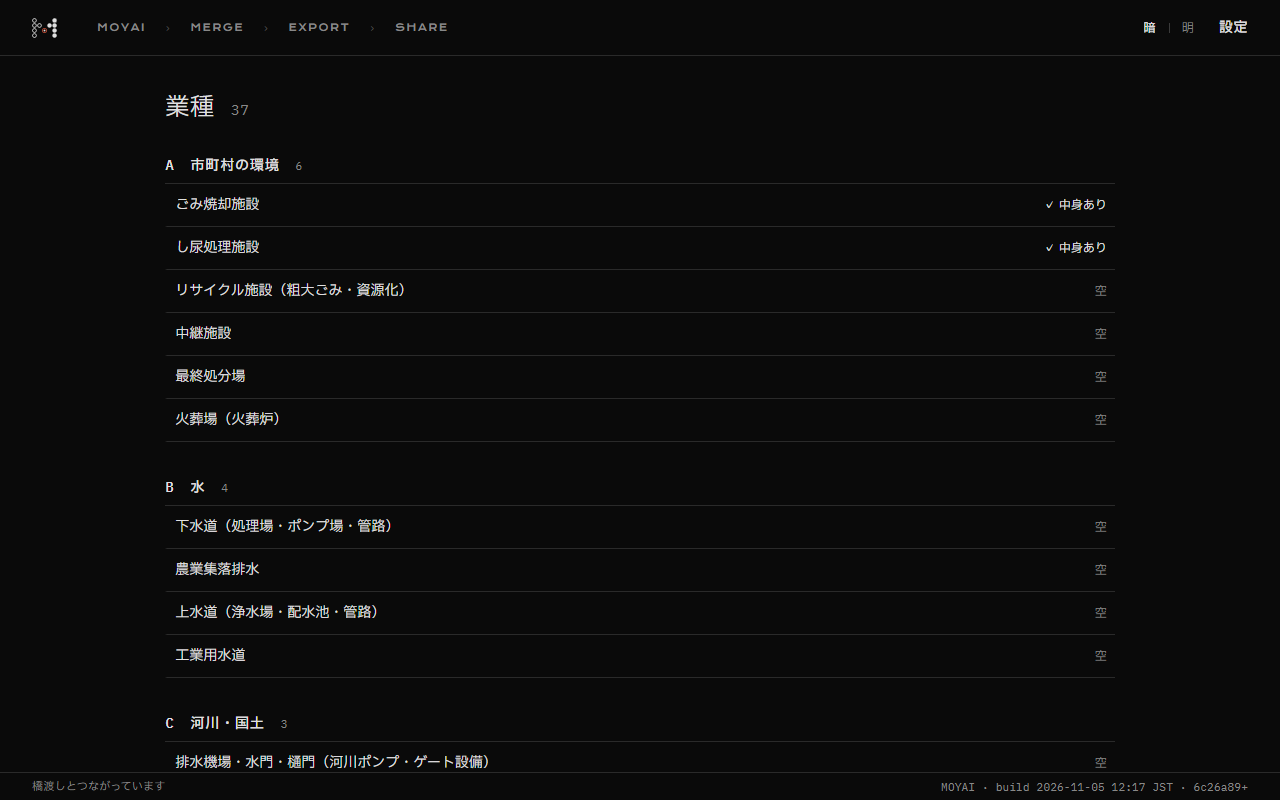
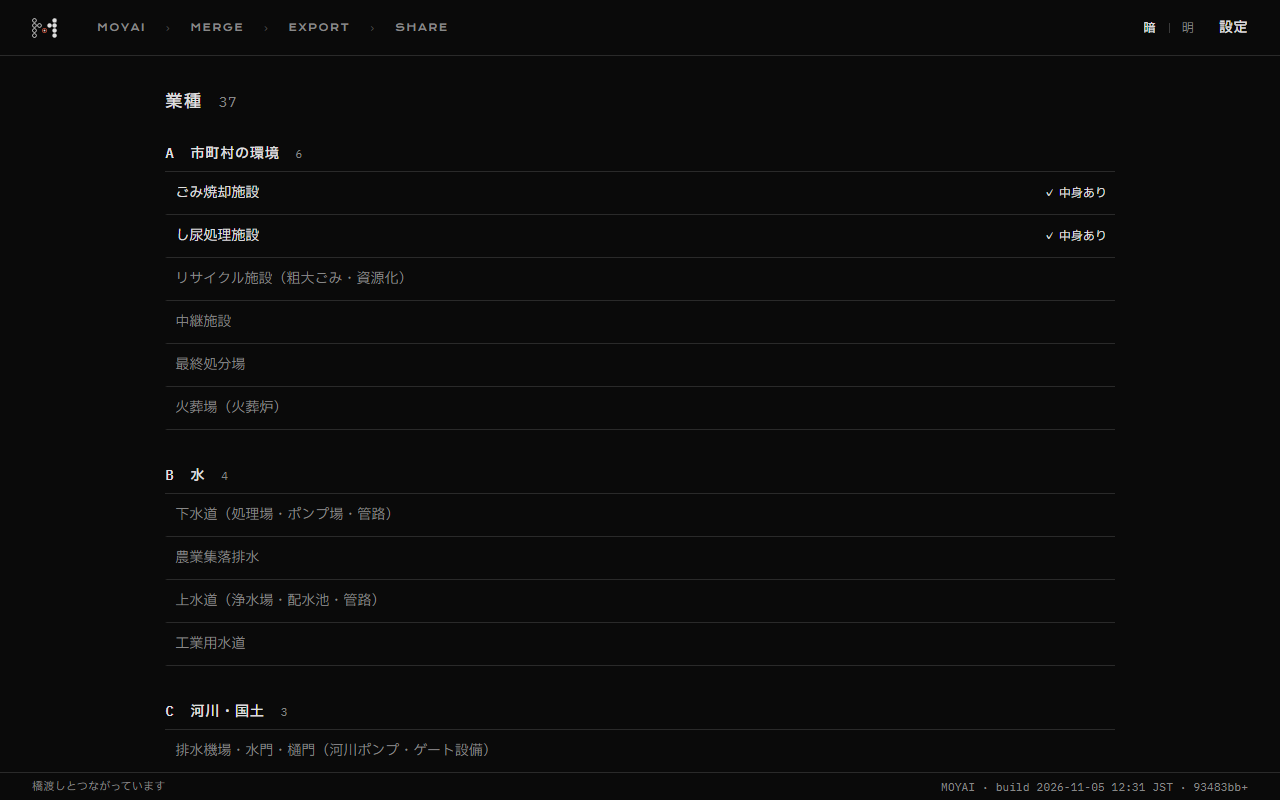
業種の画面の直し（Wire の 6 点）と emptyPack を import の下へ
- 空の行の「空」を外し、名前を淡い字に。中身のある行だけ「✓ 中身あり」
- 選んだ行と詳しくの行の左の罫を朱から墨に
- 選んだときを 1 行に：「…出どころの候補：発行元『名前』（未確認）」。docs/industries.md も同じ書き方に
- 原子力の reason を「核物質防護のため作らない」だけにし、残りは note へ
- 題を 17px・500・字間 0.1em（moyai-merge-name）に
- src/bridge/human.ts の emptyPack を import の列の下へ（動きは同じ）
- 写し 4 枚を撮り直した

diff --git a/src/app/pages/Industries.tsx b/src/app/pages/Industries.tsx
@@ -1,7 +1,7 @@
 // 【業種】（設定からのリンク。docs/plan.md §2.7・docs/screens.md 3.7）：設備の地図の群（A〜H）ごとに、設備の種類のパックを並べる。
-// 数は packs/ から数える。中身のあるパックには印、空のパックを選ぶと「まだ中身がありません」と出どころの候補を出す。作らない行は名前と理由だけ。
+// 数は packs/ から数える。中身のあるパックには印、空のパックは淡い字で、選ぶと「まだ中身がありません」と出どころの候補を出す。作らない行は名前と理由だけ。
 // 説明の文は置かない。名前・群の名前・作らない理由・出どころの候補は、すべてパックと packs/_kinds/ から読む。
-import { Container, Group, Stack, Text, Title } from "@mantine/core";
+import { Container, Group, Stack, Text } from "@mantine/core";
 import { useMemo, useState } from "react";
 import { industryMap } from "../industries";
 import type { MapRow } from "../../shared/pack";
@@ -12,21 +12,21 @@ const T = TEXT.industries;
 function Detail({ row }: { row: MapRow }) {
   return (
     <div className="moyai-industry-detail" data-testid={`industry-detail-${row.id}`}>
-      {row.kind === "empty" && (
-        <Text size="sm">
-          {T.emptyLine}
-          {T.candidates}
-          {row.sourceCandidates.map((c, i) => (
-            <span key={i}>
-              {i > 0 && "、"}
-              {T.candidate(c.title, c.issuer)}
-              {c.scope === "group" && <span className="moyai-industry-dim">{T.groupScope}</span>}
-            </span>
-          ))}
-        </Text>
-      )}
-      <Text size="xs" className="moyai-industry-dim">
-        {T.verification}　{row.verification}
+      <Text size="sm">
+        {row.kind === "empty" && (
+          <>
+            {T.emptyLine}
+            {T.candidates}
+            {row.sourceCandidates.map((c, i) => (
+              <span key={i}>
+                {i > 0 && "、"}
+                {T.candidate(c.title, c.issuer)}
+                {c.scope === "group" && <span className="moyai-industry-dim">{T.groupScope}</span>}
+              </span>
+            ))}
+          </>
+        )}
+        <span className="moyai-industry-dim">{T.level(row.verification)}</span>
       </Text>
     </div>
   );
@@ -38,7 +38,7 @@ export function Industries() {
   return (
     <Container size="lg" py="lg" data-testid="industries-page">
       <Group gap="sm" align="baseline" mb="md">
-        <Title order={2}>{T.title}</Title>
+        <h2 className="moyai-merge-name">{T.title}</h2>
         <Text className="moyai-num moyai-industry-dim" data-testid="industries-total">
           {T.count(map.total)}
         </Text>
@@ -72,7 +72,7 @@ export function Industries() {
                     onClick={() => setSelected((cur) => (cur === r.id ? null : r.id))}
                   >
                     <span>{r.name}</span>
-                    <span className="moyai-industry-mark">{r.kind === "content" ? `✓ ${T.filled}` : T.empty}</span>
+                    {r.kind === "content" && <span className="moyai-industry-mark">✓ {T.filled}</span>}
                   </button>
                   {selected === r.id && <Detail row={r} />}
                 </li>

diff --git a/src/bridge/human.ts b/src/bridge/human.ts
@@ -29,16 +29,6 @@ import { GITHUB_CLIENT_ID, githubClientIdOf, githubHostsOf, githubIo, openLedger
 import { parseJsonStrict } from "../share/jcs";
 import { loadSharePack, PACK_ID, type SharePack } from "../share/pack";
 import { parsePack } from "../shared/pack";
-
-/** 設備の地図の空のパック（名前と出どころだけ。docs/plan.md §2.7）。輪を作るときの選択に並べない */
-function emptyPack(dir: string): boolean {
-  try {
-    const r = parsePack(JSON.parse(readFileSync(join(dir, "pack.json"), "utf8")));
-    return r.ok && r.kind !== "content";
-  } catch {
-    return false;
-  }
-}
 import { POSITIONS, PROFILE_FROM, compare, defaultAxes, receiverProfile } from "../share/receive";
 import { loadLedgerPlace, loadPlaces } from "../share/receive-load";
 import { peerAggregates } from "../share/peer-reference";
@@ -64,6 +54,16 @@ import {
   type DocumentsInfo,
   type ShellRunner,
 } from "./places";
+
+/** 設備の地図の空のパック（名前と出どころだけ。docs/plan.md §2.7）。輪を作るときの選択に並べない */
+function emptyPack(dir: string): boolean {
+  try {
+    const r = parsePack(JSON.parse(readFileSync(join(dir, "pack.json"), "utf8")));
+    return r.ok && r.kind !== "content";
+  } catch {
+    return false;
+  }
+}
 
 export interface HumanEnv {
   stateDir: string | null;

diff --git a/tests/e2e/industries.spec.ts b/tests/e2e/industries.spec.ts
@@ -42,8 +42,12 @@ test("設定 → 業種：地図の全行が群ごとに並び、空のパック
     await page.getByTestId(`industry-${empty}`).click();
     const detail = page.getByTestId(`industry-detail-${empty}`);
     await expect(detail).toContainText("この業種のパックはまだ中身がありません。出どころの候補：");
-    for (const c of packOf(empty).sourceCandidates ?? []) await expect(detail).toContainText(c.title);
-    await expect(detail).toContainText("未確認");
+    // 1 行：計画 §2.7 の言葉、候補は「発行元『名前』」、後ろに確かめた度合い
+    const cands = (packOf(empty).sourceCandidates ?? []) as { title: string; issuer: string | null; scope: string }[];
+    const line = `この業種のパックはまだ中身がありません。出どころの候補：${cands.map((c) => (c.issuer ? `${c.issuer}『${c.title}』` : c.title) + (c.scope === "group" ? "（群の候補）" : "")).join("、")}（未確認）`;
+    await expect(detail).toHaveText(line);
+    // 空の行には印を出さない（中身のある行だけ「✓ 中身あり」）
+    await expect(page.getByTestId(`industry-${empty}`)).toHaveText(packOf(empty).name);
     await page.screenshot({ path: shot(`industries-selected-${tag}`), fullPage: true });
   });
 

diff --git a/src/app/theme.css b/src/app/theme.css
@@ -753,7 +753,7 @@ button.moyai-top-mk[data-kind="signed"] {
   align-self: flex-start;
 }
 
-/* 【業種】（設備の地図）：群の見出しの下に、設備の種類を 1 行ずつ。中身のある行は ✓ と墨、空の行は淡い字。選んだ行は左に朱の罫 */
+/* 【業種】（設備の地図）：群の見出しの下に、設備の種類を 1 行ずつ。中身のある行は ✓ と墨、空の行と作らない行は淡い字。選んだ行は左に墨の罫（朱は判断が要る所だけ） */
 .moyai-industry-head {
   padding-bottom: var(--sp-2);
   border-bottom: 1px solid var(--line);
@@ -787,8 +787,12 @@ button.moyai-industry-row {
 button.moyai-industry-row:hover {
   color: var(--text-2);
 }
+.moyai-industry-row[data-kind="empty"],
+.moyai-industry-row[data-kind="notBuilt"] {
+  color: var(--text-3);
+}
 .moyai-industry-row[aria-expanded="true"] {
-  border-left-color: var(--shu);
+  border-left-color: var(--text);
 }
 .moyai-industry-mark {
   flex: none;
@@ -804,6 +808,6 @@ button.moyai-industry-row:hover {
 }
 .moyai-industry-detail {
   padding: var(--sp-2) var(--sp-3) var(--sp-3);
-  border-left: 2px solid var(--shu);
+  border-left: 2px solid var(--text);
   border-bottom: 1px solid var(--line);
 }

diff --git a/src/app/text/index.ts b/src/app/text/index.ts
@@ -42,13 +42,12 @@ export const TEXT = {
     title: "業種",
     count: (n: number) => `${n}`,
     filled: "中身あり",
-    empty: "空",
     notBuilt: "作らない",
     emptyLine: "この業種のパックはまだ中身がありません。",
     candidates: "出どころの候補：",
-    candidate: (title: string, issuer: string | null) => (issuer ? `${title}（${issuer}）` : title),
+    candidate: (title: string, issuer: string | null) => (issuer ? `${issuer}『${title}』` : title),
+    level: (v: string) => `（${v}）`,
     groupScope: "（群の候補）",
-    verification: "確かめた度合い",
     invalid: (folder: string) => `読み込めないパック：${folder}`,
   },
   trial: {

diff --git a/docs/industries.md b/docs/industries.md
@@ -3,7 +3,7 @@
 `docs/plan.md` §2.7 の表。地図の 1 行（設備の種類）ごとに `packs/<pack-id>/` が 1 つある。画面は設定 › 【業種】（`#/settings/industries`）で、数は `packs/` から数える。群の名前と群の中の並びは `packs/_kinds/groups.json`。
 
 - 中身のあるパックは 2 つ（ごみ焼却・し尿処理）。ほかの 35 は名前と出どころの候補だけ（`content: "empty"`、確かめた度合いは `未確認`、`sharing: "off"`、フォルダには `pack.json` だけ）。原子力は名前と作らない理由だけ。
-- 出どころの候補は、運営者の地図に挙がった資料の名前で、一次資料で照らしていない。URL はまだ書いていない（照らすときに書く）。`scope: "group"` の候補は群に挙がったもので、その行に当たるかも未確認。
+- 出どころの候補は、運営者の地図に挙がった資料の名前で（画面と同じく、発行元が分かるものは「発行元『名前』」と書く。名前は正式の題と照らしていない）、一次資料で照らしていない。URL はまだ書いていない（照らすときに書く）。`scope: "group"` の候補は群に挙がったもので、その行に当たるかも未確認。
 - 形は `src/shared/pack.ts`（`moyai.pack/0`）で、試験は `pack.map`（`tests/unit/packs/pack-map.test.tsx`、`tests/e2e/industries.spec.ts`）。
 
 ## 表
@@ -14,23 +14,23 @@
 |---|---|---|---|---|
 | A 市町村の環境 | ごみ焼却（`waste-incineration`） | 環境省『廃棄物処理施設長寿命化総合計画作成の手引き（ごみ焼却施設編）』表Ⅱ-4 | 原典照合済（common・全国の表・検査）。共有の公開語彙は未確認 | 厚い：fictional-1 機器 217・作業 2,120・10 年度。fictional-2 機器 16・作業 114。公開の台帳の架空 10 施設 |
 | A | し尿処理・汚泥再生処理センター（`night-soil`） | 環境省『同 手引き（し尿処理施設・汚泥再生処理センター編）』表Ⅱ-4 | 原典照合済（common）。全国の表・公開語彙・検査は未実装 | 薄い：fictional-ns-1 機器 40・作業 292。報告書・PDF・写真は無い。パックを足しただけ |
-| A | リサイクル施設（粗大ごみ・資源化）（`recycling`） | 候補：長寿命化総合計画作成の手引き（施設の種類ごとの編） | 未確認 | 無い（空） |
-| A | 中継施設（`transfer-station`） | 候補：同上 | 未確認 | 無い（空） |
-| A | 最終処分場（`final-disposal`） | 候補：最終処分場の長寿命化の手引き | 未確認 | 無い（空） |
+| A | リサイクル施設（粗大ごみ・資源化）（`recycling`） | 候補：環境省『廃棄物処理施設長寿命化総合計画作成の手引き（施設の種類ごとの編）』 | 未確認 | 無い（空） |
+| A | 中継施設（`transfer-station`） | 候補：環境省『廃棄物処理施設長寿命化総合計画作成の手引き（施設の種類ごとの編）』 | 未確認 | 無い（空） |
+| A | 最終処分場（`final-disposal`） | 候補：環境省『最終処分場の長寿命化の手引き』 | 未確認 | 無い（空） |
 | A | 火葬場（火葬炉）（`crematorium`） | 候補：自治体の長寿命化計画、火葬場の指針 | 未確認 | 無い（空） |
-| B 水 | 下水道（`sewerage`） | 候補：下水道ストックマネジメントのガイドライン | 未確認 | 無い（空） |
-| B | 農業集落排水（`rural-sewerage`） | 候補：機能診断のマニュアル | 未確認 | 無い（空） |
-| B | 上水道（`water-supply`） | 候補：アセットマネジメントの手引き、維持・修繕のガイドライン | 未確認 | 無い（空） |
-| B | 工業用水道（`industrial-water`） | 候補：工業用水道の指針 | 未確認 | 無い（空） |
-| C 河川・国土 | 排水機場・水門・樋門（`river-pump-gate`） | 候補：河川ポンプ設備・河川用ゲート設備の点検・整備・更新マニュアル | 未確認 | 無い（空） |
-| C | ダムの管理設備（`dam-facility`） | 候補：ダム用ゲート設備の点検・整備・更新検討マニュアル | 未確認 | 無い（空） |
-| C | 海岸・港湾・漁港の施設（`coast-port`） | 候補：港湾施設の維持管理の技術マニュアル | 未確認 | 無い（空） |
-| D 道路 | 道路橋（`road-bridge`） | 候補：道路橋の定期点検要領 | 未確認 | 無い（空） |
-| D | トンネル（`road-tunnel`） | 候補：トンネルの定期点検要領 | 未確認 | 無い（空） |
-| D | 道路附属物（`road-ancillary`） | 候補：附属物の定期点検要領 | 未確認 | 無い（空） |
-| D | トンネルの機械設備（`tunnel-equipment`） | 候補：群の定期点検要領（この行に当たるかは未確認） | 未確認 | 無い（空） |
-| D | 舗装（`pavement`） | 候補：舗装点検要領 | 未確認 | 無い（空） |
-| E 公共建築・公共施設 | 公共建築の建築設備（`building-services`） | 候補：建築保全業務共通仕様書、学校施設の長寿命化計画の手引、建築基準法 12 条の定期検査、消防法の点検 | 未確認 | 無い（空） |
+| B 水 | 下水道（`sewerage`） | 候補：国土交通省『下水道ストックマネジメントのガイドライン（設備の分類）』 | 未確認 | 無い（空） |
+| B | 農業集落排水（`rural-sewerage`） | 候補：農林水産省『機能診断のマニュアル』 | 未確認 | 無い（空） |
+| B | 上水道（`water-supply`） | 候補：厚生労働省『アセットマネジメントの手引き』、厚生労働省『維持・修繕のガイドライン』 | 未確認 | 無い（空） |
+| B | 工業用水道（`industrial-water`） | 候補：経済産業省『工業用水道の指針』 | 未確認 | 無い（空） |
+| C 河川・国土 | 排水機場・水門・樋門（`river-pump-gate`） | 候補：国土交通省『河川ポンプ設備 点検・整備・更新マニュアル』、国土交通省『河川用ゲート設備 点検・整備・更新マニュアル』 | 未確認 | 無い（空） |
+| C | ダムの管理設備（`dam-facility`） | 候補：国土交通省『ダム用ゲート設備 点検・整備・更新検討マニュアル』 | 未確認 | 無い（空） |
+| C | 海岸・港湾・漁港の施設（`coast-port`） | 候補：国土交通省『港湾施設の維持管理の技術マニュアル』 | 未確認 | 無い（空） |
+| D 道路 | 道路橋（`road-bridge`） | 候補：国土交通省『道路橋の定期点検要領（部材の区分と判定区分）』 | 未確認 | 無い（空） |
+| D | トンネル（`road-tunnel`） | 候補：国土交通省『トンネルの定期点検要領（部材の区分と判定区分）』 | 未確認 | 無い（空） |
+| D | 道路附属物（`road-ancillary`） | 候補：国土交通省『附属物の定期点検要領』 | 未確認 | 無い（空） |
+| D | トンネルの機械設備（`tunnel-equipment`） | 候補：国土交通省『道路橋・トンネル・附属物の定期点検要領』（群の候補。この行に当たるかは未確認） | 未確認 | 無い（空） |
+| D | 舗装（`pavement`） | 候補：国土交通省『舗装点検要領』 | 未確認 | 無い（空） |
+| E 公共建築・公共施設 | 公共建築の建築設備（`building-services`） | 候補：国土交通省『建築保全業務共通仕様書（点検の項目）』、文部科学省『学校施設の長寿命化計画の手引』、建築基準法 12 条の定期検査、消防法の点検 | 未確認 | 無い（空） |
 | E | 公園の遊具（`playground`） | 候補：遊具の安全確保の指針 | 未確認 | 無い（空） |
 | F エネルギー | 火力発電（`thermal-power`）、バイオマス・ごみ発電（`biomass-waste-power`）、変電所（`substation`）、都市ガスの製造所（`city-gas-plant`）、地域冷暖房（`district-heating`）、太陽光・風力（`solar-wind`） | 候補：電気事業法の定期事業者検査と保安規程、ガス事業法（群の候補）。公の項目リストは無い見込み（未確認） | 未確認 | 無い（空） |
 | G 産業プラント | 化学・石油精製・石油化学（`chemical-petroleum`）、製鉄（`steel`）、製紙（`paper`）、食品・医薬（`food-pharma`）、半導体・電子（`semiconductor`） | 候補：高圧ガス保安法、消防法の危険物、労働安全衛生法のボイラー・クレーン・圧力容器（群の候補）。公の項目リストは無い見込み（未確認） | 未確認 | 無い（空） |
